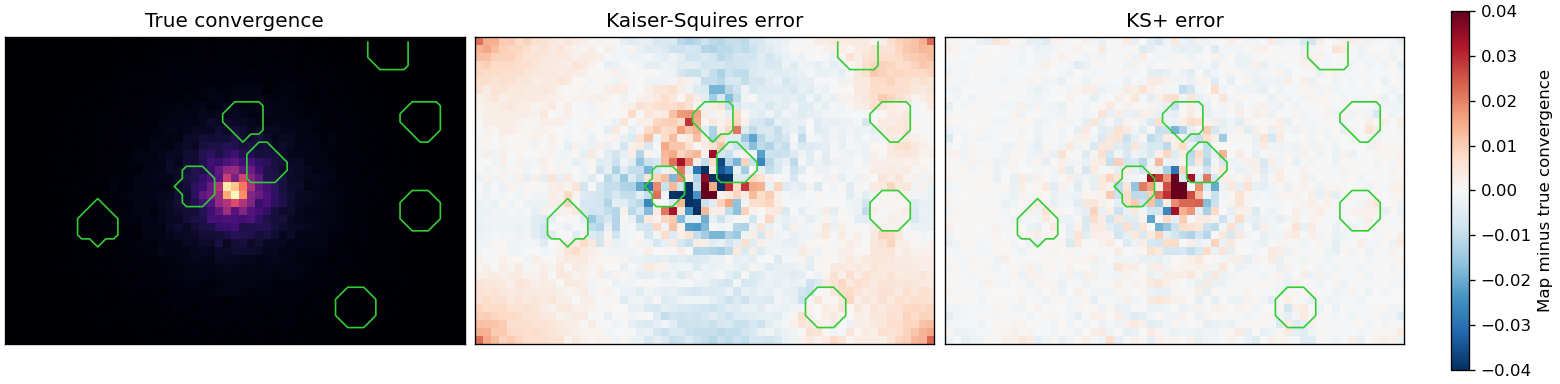
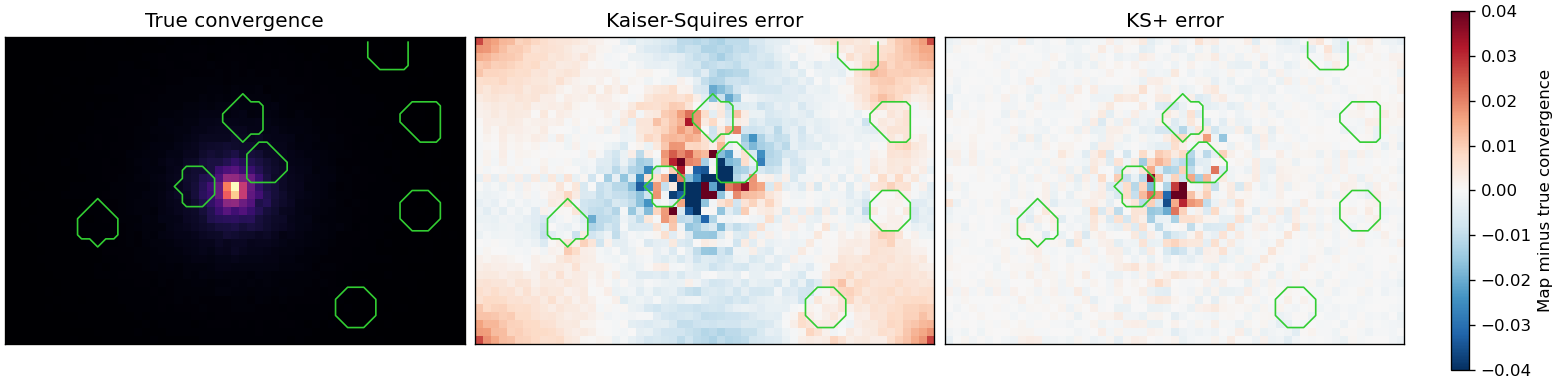
Validate on the truth catalog's galaxies behind the cluster
The truth catalog also holds the stars, the cluster galaxies and the
galaxies in front of the cluster at z = 0.45, none of which carry shear.
Mapping them diluted the binned shear unevenly, most where the cluster
galaxies sit near the center, so the comparison with the binned true
convergence measured that dilution as much as the maps. The validation
script, the physics tests and tutorial 03 now keep the 29,545 galaxies
behind the cluster, as a shear catalog would.

The comparison numbers change on purpose: Kaiser-Squires and KS+ reach
correlations of 0.9711 and 0.9996, KS+ has a five times lower RMS error
than Kaiser-Squires and a 56% lower one inside the holes. The validation
page, its two figures and the paper give the new numbers. The physics
tests pass with the same assertions, and tests/data/reference.npz does
not use the truth catalog.

diff --git a/validation/accuracy.py b/validation/accuracy.py
@@ -17,18 +17,22 @@ import smpy
 
 ROOT = Path(__file__).resolve().parents[1]
 TRUTH = ROOT / "examples" / "data" / "forecast_lum_truth.fits"
+CLUSTER_REDSHIFT = 0.45
 CATALOG = ROOT / "examples" / "data" / "forecast_lum_annular.fits"
 OUTPUT = ROOT / "docs" / "source" / "_static" / "validation"
 NAMES = {"kaiser_squires": "Kaiser-Squires", "ks_plus": "KS+", "aperture_mass": "Aperture mass"}
 TRUTH_SETTINGS = dict(g1_col="nfw_g1", g2_col="nfw_g2", pixel_scale=0.4)
 
 def truth_catalog():
-    """Return the truth catalog with its convergence and a column of zeros.
+    """Return the galaxies of the truth catalog behind the cluster, as a
+    shear catalog would hold them, with their convergence and a column of
+    zeros.
 
     The catalog holds reduced shear g and magnification mu, so the
     convergence follows from mu = 1 / ((1 - kappa)^2 (1 - |g|^2)).
     """
     table = Table.read(TRUTH, hdu=1)
+    table = table[table["redshift"] > CLUSTER_REDSHIFT]
     g_squared = table["nfw_g1"] ** 2 + table["nfw_g2"] ** 2
     table["kappa"] = 1 - 1 / np.sqrt(table["nfw_mu"] * (1 - g_squared))
     table["zero"] = 0.0

diff --git a/tests/test_physics.py b/tests/test_physics.py
@@ -22,6 +22,7 @@ from smpy.mapping_methods import METHODS
 from smpy.mapping_methods.kaiser_squires import convergence_from_shear, shear_from_convergence
 
 TRUTH = Path(__file__).resolve().parents[1] / "examples" / "data" / "forecast_lum_truth.fits"
+CLUSTER_REDSHIFT = 0.45
 SHEAR = dict(g1_col="nfw_g1", g2_col="nfw_g2")
 COORDINATES = {
     "radec": dict(pixel_scale=0.4),
@@ -30,12 +31,14 @@ COORDINATES = {
 
 @pytest.fixture
 def truth():
-    """The truth catalog with its convergence and a column of zeros.
+    """The galaxies of the truth catalog behind the cluster, as a shear
+    catalog would hold them, with their convergence and a column of zeros.
 
     The catalog holds reduced shear g and magnification mu, so the
     convergence follows from mu = 1 / ((1 - kappa)^2 (1 - |g|^2)).
     """
     table = Table.read(TRUTH, hdu=1)
+    table = table[table["redshift"] > CLUSTER_REDSHIFT]
     g_squared = table["nfw_g1"] ** 2 + table["nfw_g2"] ** 2
     table["kappa"] = 1 - 1 / np.sqrt(table["nfw_mu"] * (1 - g_squared))
     table["zero"] = 0.0

diff --git a/paper/paper.md b/paper/paper.md
@@ -65,7 +65,7 @@ The weak lensing community is served by publicly available mapping tools like `l
 
 3. **Usability:** Creating convergence maps with `SMPy` requires minimal input—users need to only provide a catalog of galaxies with their associated shear components and coordinates. This straightforward input requirement makes the tool accessible to researchers at all levels. A flexible configuration system is integrated via a single YAML file that defines file paths, convergence map algorithm settings, plotting parameters, and more. With this configuration file, the user can create convergence and SNR maps with one line, either via terminal or within code.
 
-4. **Robustness:** `SMPy` is tested against analytical lensing relations and simulated catalogs with known convergence. For a noiseless simulated cluster, Kaiser-Squires and `KS+` achieve correlations of 0.965 and 0.997 with the true convergence, respectively. Within masked regions of the same simulation, `KS+` reduces the RMS reconstruction error by 38% relative to Kaiser-Squires. The coordinate system abstraction handles both celestial coordinates (using a tangent-plane projection with each shear rotated into the map frame) and pixel-based coordinates through a unified interface. To quantify the significance of the weak lensing detection, multiple noise realizations can be generated using either spatial shuffling (randomizing galaxy positions while preserving shear values) or orientation shuffling (randomizing shear orientations while preserving positions). These noise realizations are mapped with the same method and settings as the observations to estimate the noise in each pixel. Further details of the validation tests and supporting figures are provided in the documentation.
+4. **Robustness:** `SMPy` is tested against analytical lensing relations and simulated catalogs with known convergence. For a noiseless simulated cluster, Kaiser-Squires and `KS+` achieve correlations of 0.971 and 0.9996 with the true convergence, respectively. Within masked regions of the same simulation, `KS+` reduces the RMS reconstruction error by 56% relative to Kaiser-Squires. The coordinate system abstraction handles both celestial coordinates (using a tangent-plane projection with each shear rotated into the map frame) and pixel-based coordinates through a unified interface. To quantify the significance of the weak lensing detection, multiple noise realizations can be generated using either spatial shuffling (randomizing galaxy positions while preserving shear values) or orientation shuffling (randomizing shear orientations while preserving positions). These noise realizations are mapped with the same method and settings as the observations to estimate the noise in each pixel. Further details of the validation tests and supporting figures are provided in the documentation.
 
 These design decisions are reflected in `SMPy`'s overall workflow: users provide a shear catalog and a single YAML configuration file, and `SMPy` produces convergence maps, signal-to-noise maps, and publication-quality plots with minimal boilerplate. The mapping framework is implemented through standardized abstract base classes, allowing different reconstruction methods to be interchanged while preserving a consistent interface and coordinate-system handling.
 

diff --git a/docs/source/validation.rst b/docs/source/validation.rst
@@ -54,7 +54,9 @@ Recovering a simulated cluster
 
 The truth catalog in ``examples/data/forecast_lum_truth.fits`` holds the
 noiseless reduced shear and magnification of an NFW cluster at the positions
-of 34,704 galaxies, from which its convergence follows. The maps use 0.4
+of its galaxies, from which their convergence follows. The maps are made from
+the 29,545 galaxies behind the cluster, as a shear catalog would hold them. The
+maps use 0.4
 arcminute pixels and the default settings, and they are compared with the true
 convergence averaged over each pixel and smoothed like the maps. Shear does not
 determine the mean convergence, so every map is shown and compared with its
@@ -69,24 +71,24 @@ mean removed.
 
    * - Method
      - Correlation with the truth
-     - RMS error (peak 0.107)
+     - RMS error (peak 0.145)
      - B-mode / E-mode spread
    * - Kaiser-Squires
-     - 0.965
-     - 0.0042
-     - 0.166
+     - 0.9711
+     - 0.0045
+     - 0.167
    * - KS+
-     - 0.997
-     - 0.0021
-     - 0.025
+     - 0.9996
+     - 0.0009
+     - 0.021
    * - Aperture mass
      -
      -
-     - 0.103
+     - 0.108
 
 All three maps peak within one pixel of the true peak. By correcting for
-reduced shear and the field border, KS+ halves the error of Kaiser-Squires and
-cuts its B mode by a factor of 6.6. Aperture mass is a filtered statistic, not a
+reduced shear and the field border, KS+ cuts the error of Kaiser-Squires by a
+factor of 5 and its B mode by a factor of 7.8. Aperture mass is a filtered statistic, not a
 convergence map, so it is compared only by its peak and B mode.
 
 Filling holes
@@ -101,7 +103,7 @@ holes.
    :alt: The true convergence with eight holes outlined, and the error of the
          Kaiser-Squires and KS+ maps.
 
-Inside the holes, the RMS error is 0.0103 for Kaiser-Squires and 0.0064 for
+Inside the holes, the RMS error is 0.0132 for Kaiser-Squires and 0.0059 for
 KS+. KS+ also removes the Kaiser-Squires errors along the field border.
 
 Calibration of the SNR maps
